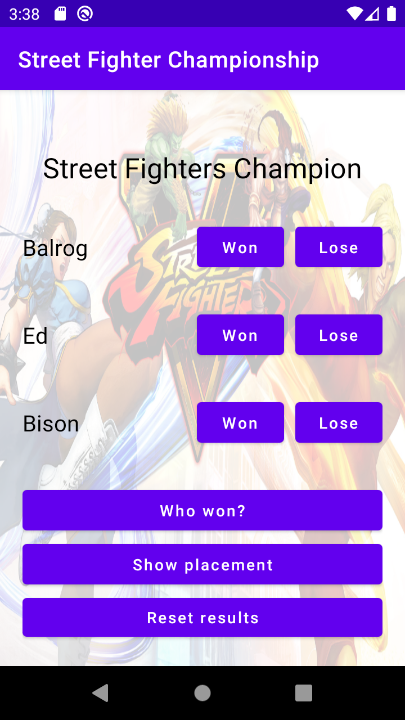
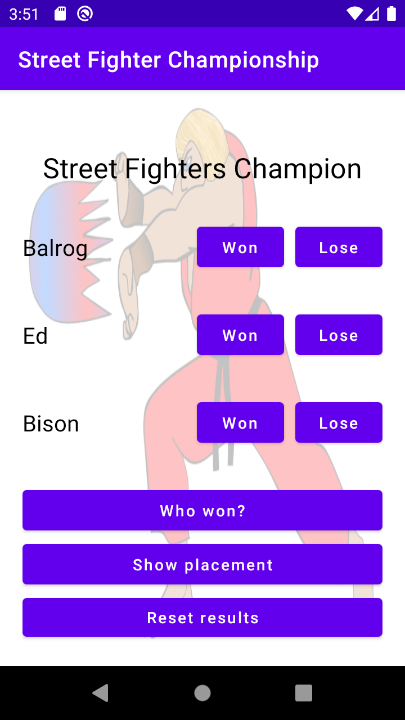
Changed assets to free to use assets, added appicon

diff --git a/README.md b/README.md
@@ -13,3 +13,5 @@ It helps friends to play using 3 characters and it let the players know who won 
 
 # Showing the winner
 !["Print Winner"](src/print_003.png)
+
+If you like this repository, please let a star for contributing with us
